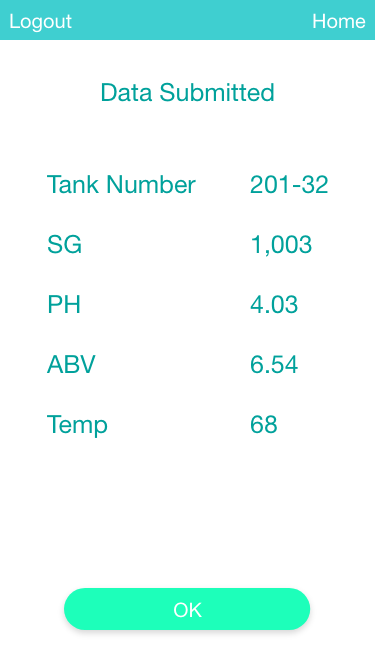
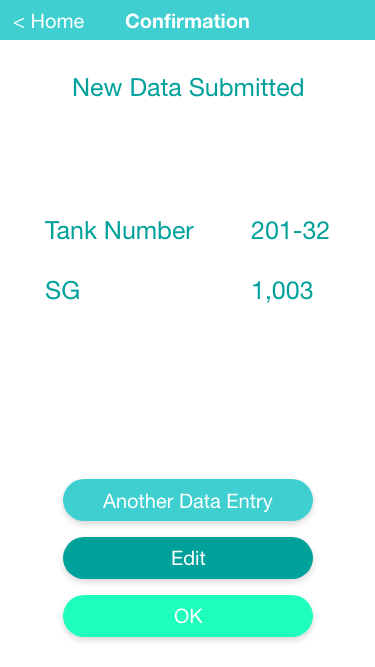
updated the UI design images on the design document

diff --git a/Documents/DesignDocument/writeup.tex b/Documents/DesignDocument/writeup.tex
@@ -319,9 +319,9 @@
 		Open source projects have been struggling with ensuing that contributors know how to read the code that exists in the project, and write changes that are useful to the project.
 		There has been a development of general design strategies used in the open source community to ensure a maintainable project, and utilizing these strategies will create a project that will be maintainable for whoever works on the project after the BrewHops team is done.
 
-		\clearpage
 
 		\section{Appendix}
+		\subsection{Mobile Design}
 		\centering
 		\begin{tabular}{ll}
 				Home & Menu \\
@@ -330,6 +330,18 @@
 				\includegraphics[scale=.3]{images/mobile/data_entry} & \includegraphics[scale=.3]{images/mobile/confirmation_page} \\
 				Vat Monitoring & Vat Info \\
 				\includegraphics[scale=.3]{images/mobile/vat_monitoring} & \includegraphics[scale=.3]{images/mobile/vat_info} \\
+		\end{tabular}
+
+		\subsection{Desktop Design}
+		\begin{tabular}{l}
+				Admin \\
+				\includegraphics[scale=.15]{images/web/admin} \\
+				Home \\
+				\includegraphics[scale=.15]{images/web/home} \\
+				Login \\
+				\includegraphics[scale=.15]{images/web/login} \\
+				Tank Info \\
+				\includegraphics[scale=.15]{images/web/tank_info} \\
 		\end{tabular}
 
 \end{document}
